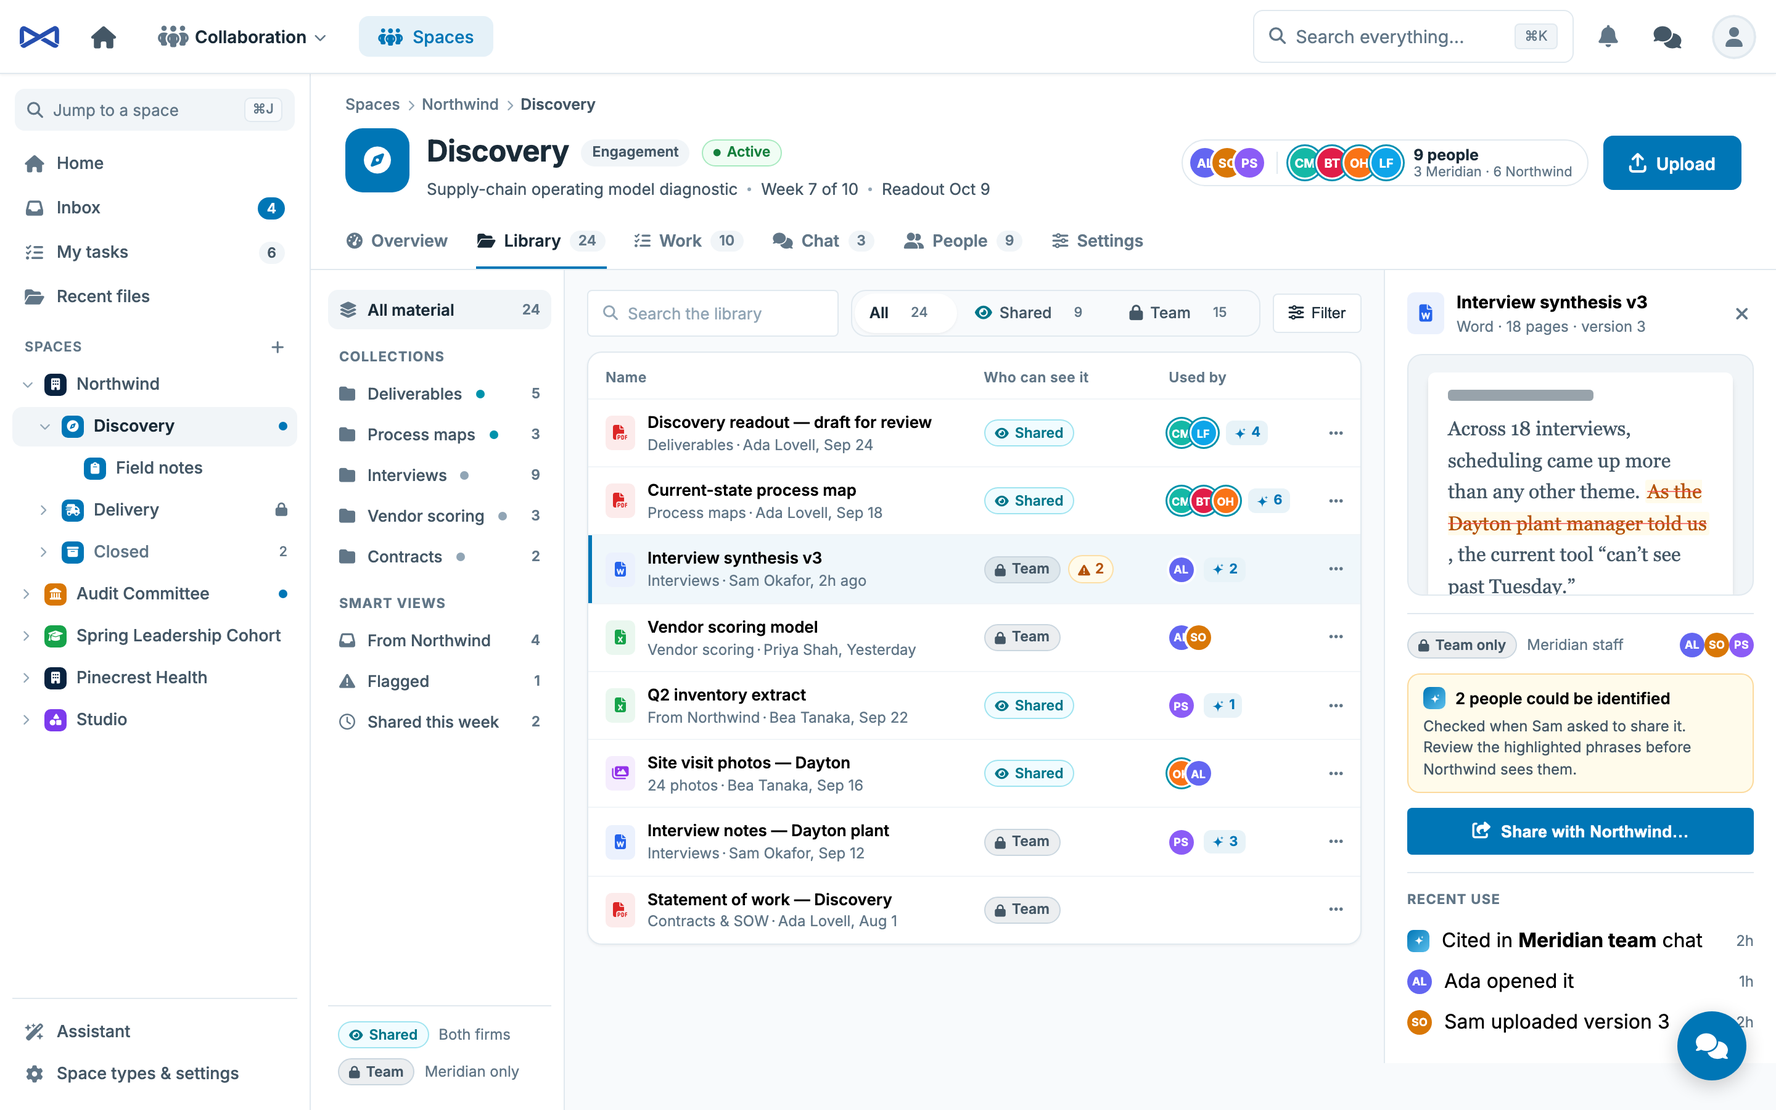
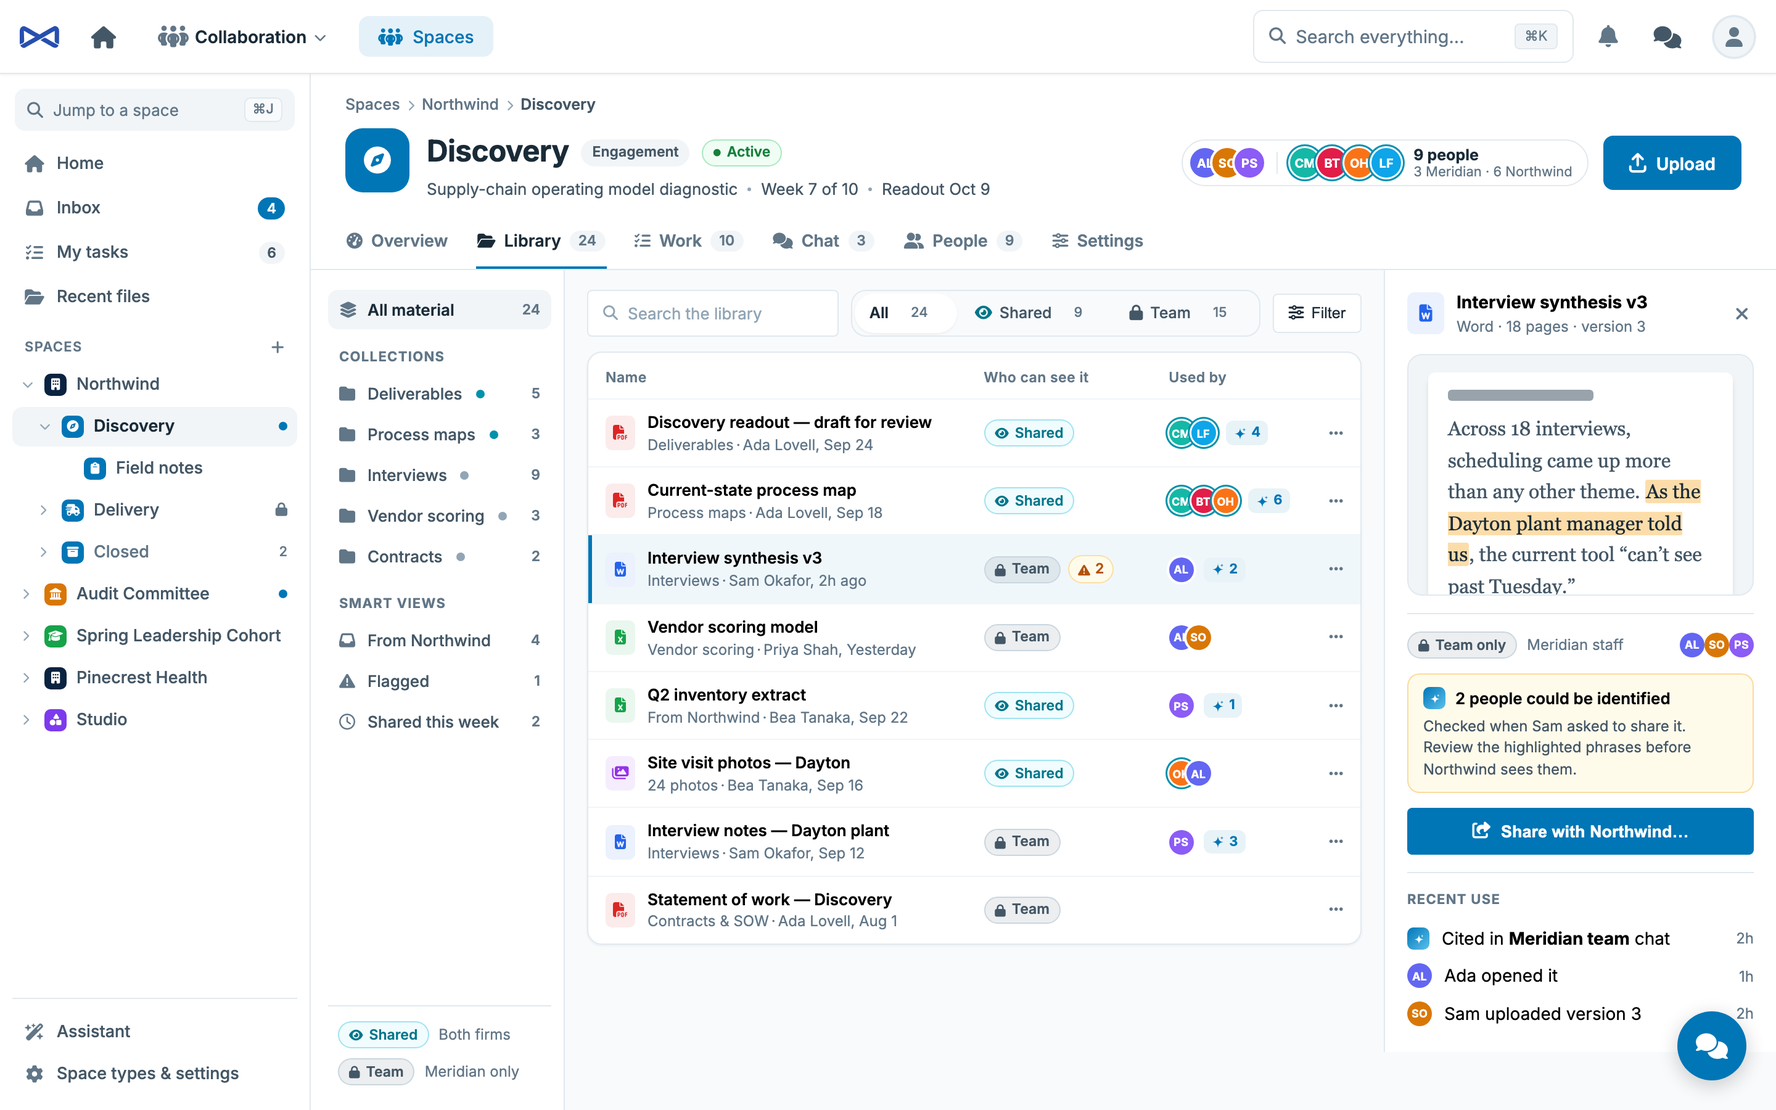
fix(collab): round 97 delivery — phrase highlight tokens, tight budgets, RM5 upload gate, WG3 exact reasons, and Explorer font bounds

Changed region(s): [[0.8125, 0.4356, 0.9688, 0.5289], [0.7812, 0.84, 0.9688, 0.9333]]

diff --git a/packages/IntegrationTests/src/checks/room.checks.ts b/packages/IntegrationTests/src/checks/room.checks.ts
@@ -1,9 +1,11 @@
 import { Assert, IntegrationCheckRegistry, type IntegrationCheckContext, type NamedCheck } from '@memberjunction/testing-integration/registry';
 import { MJConversationDetailEntity, MJConversationEntity } from '@memberjunction/core-entities';
-import { postSpaceMessage } from '@mj-biz-apps/collaboration-core-entities-server';
+import { postSpaceMessage, uploadSpaceFile, decideUploadBand, collaborationFileStore } from '@mj-biz-apps/collaboration-core-entities-server';
 import { mjBizAppsCollaborationSpaceItemEntity } from '@mj-biz-apps/collaboration-entities';
 import { CONVERSATION_ENTITY, CONVERSATION_DETAIL_ENTITY, SPACE_ENTITY, SPACE_ITEM_ENTITY, FILE_ENTITY } from '../entity-names.js';
 import { FindRows, GetPersonaUser, View } from '../wire.js';
+import { COLLABORATION_STORAGE_ACCOUNT_ID, ensureLocalStorageAccount } from '../world/local-storage-account.js';
+import { worldStorageRoot } from '../world/seed-files.js';
 
 const NORTHWIND_SPACE_ID = 'C1000001-0000-4000-8000-000000000001';
 const DISCOVERY_SPACE_ID = 'C1000001-0000-4000-8000-000000000002';
@@ -232,21 +234,34 @@ const checks: NamedCheck[] = [
             const sam = await GetPersonaUser(ctx, 'sam');
             const casey = await GetPersonaUser(ctx, 'casey');
 
-            const fileRows = await FindRows<{ ID: string; Name: string }>(ctx, FILE_ENTITY, '1=1', ['ID', 'Name']);
-            Assert(fileRows.length > 0, 'Found at least one file to link in Sealed branch');
-            const fileEntity = ctx.Provider.EntityByName(FILE_ENTITY);
-            Assert(!!fileEntity, 'File entity exists');
+            await ensureLocalStorageAccount(ctx.Provider, ctx.User, worldStorageRoot());
+            const store = collaborationFileStore(ctx.Provider, COLLABORATION_STORAGE_ACCOUNT_ID);
+            const uniqueFileName = `sealed-branch-plan-${Date.now()}.txt`;
 
+            const uploadOutcome = await uploadSpaceFile({
+                user: sam,
+                storageUser: ctx.User,
+                provider: ctx.Provider,
+                store,
+                spaceId: SEALED_BRANCH_SPACE_ID,
+                folder: 'Internal',
+                fileName: uniqueFileName,
+                mimeType: 'text/plain',
+                content: Buffer.from('Sealed branch confidential test plan content'),
+                gate: () => decideUploadBand(ctx.Provider, sam, SEALED_BRANCH_SPACE_ID),
+            });
+            Assert(uploadOutcome.ok, `Uploading file as Sam in Sealed branch must succeed: ${uploadOutcome.ok ? '' : uploadOutcome.message}`);
+            if (!uploadOutcome.ok) throw new Error(`Upload failed: ${uploadOutcome.message}`);
+
+            const sealedItemId = uploadOutcome.itemId;
             const sealedItem = await ctx.Provider.GetEntityObject<mjBizAppsCollaborationSpaceItemEntity>(SPACE_ITEM_ENTITY, sam);
-            sealedItem.NewRecord();
-            sealedItem.SpaceID = SEALED_BRANCH_SPACE_ID;
-            sealedItem.EntityID = fileEntity!.ID;
-            sealedItem.RecordID = `ID|${fileRows[0].ID}`;
+            Assert(await sealedItem.Load(sealedItemId), 'Load uploaded sealed item');
             sealedItem.Band = 'Shared';
-            const savedSealedItem = await sealedItem.Save();
-            Assert(savedSealedItem, 'Creating Shared item in Sealed branch must succeed');
+            const promoted = await sealedItem.Save();
+            Assert(promoted, 'Promoting sealed branch item to Shared must succeed');
 
             try {
+                // 1. Sam asks in Northwind's room: Casey's read must NOT name uniqueFileName
                 const samPostRes = await postSpaceMessage(ctx.Provider, sam, {
                     spaceId: NORTHWIND_SPACE_ID,
                     text: '@Assistant summarize all materials in this space',
@@ -269,10 +284,38 @@ const checks: NamedCheck[] = [
                 );
                 Assert(caseyReplyRes.Success && (caseyReplyRes.Results?.length ?? 0) === 1, 'Casey can read Northwind room assistant reply');
                 const nwReplyMsg = caseyReplyRes.Results![0].Message;
-                Assert(!nwReplyMsg.includes(fileRows[0].Name), `Northwind room assistant reply must not name sub-space Shared file ${fileRows[0].Name}`);
+                Assert(!nwReplyMsg.includes(uniqueFileName), `Northwind room assistant reply must not name sub-space Shared file ${uniqueFileName}`);
+
+                // 2. The other half: Sam asking in Sealed branch's own room names it
+                const samSealedRes = await postSpaceMessage(ctx.Provider, sam, {
+                    spaceId: SEALED_BRANCH_SPACE_ID,
+                    text: '@Assistant summarize materials in this space',
+                    executeAgent: true,
+                });
+                Assert(samSealedRes.ok === true, 'Sam postSpaceMessage in Sealed branch room succeeds');
+                if (!samSealedRes.ok) throw new Error(`Sam postSpaceMessage failed: ${samSealedRes.message}`);
+                if (samSealedRes.detailId) createdDetailIds.push(samSealedRes.detailId);
+                if (samSealedRes.assistantDetailId) createdDetailIds.push(samSealedRes.assistantDetailId);
+
+                const samSealedReplyRes = await view.RunView<{ ID: string; Message: string }>(
+                    {
+                        EntityName: CONVERSATION_DETAIL_ENTITY,
+                        ExtraFilter: `ID = '${samSealedRes.assistantDetailId}'`,
+                        Fields: ['ID', 'Message'],
+                        ResultType: 'simple',
+                    },
+                    sam,
+                );
+                Assert(samSealedReplyRes.Success && (samSealedReplyRes.Results?.length ?? 0) === 1, 'Sam can read Sealed branch room assistant reply');
+                const sealedReplyMsg = samSealedReplyRes.Results![0].Message;
+                Assert(sealedReplyMsg.includes(uniqueFileName), `Sealed branch room reply must name its own Shared file ${uniqueFileName}`);
             } finally {
-                if (sealedItem.ID) {
-                    await sealedItem.Delete();
+                if (sealedItemId) {
+                    const itemToDelete = await ctx.Provider.GetEntityObject<mjBizAppsCollaborationSpaceItemEntity>(SPACE_ITEM_ENTITY, sam);
+                    if (await itemToDelete.Load(sealedItemId)) {
+                        const deleted = await itemToDelete.Delete();
+                        Assert(deleted === true, 'Deleting uploaded Sealed branch space item must succeed');
+                    }
                 }
             }
         },

diff --git a/packages/IntegrationTests/src/checks/client/room.client.checks.ts b/packages/IntegrationTests/src/checks/client/room.client.checks.ts
@@ -174,23 +174,27 @@ const checks: NamedCheck[] = [
             // B0.2: With a Shared item in Sealed branch, Sam asks in Northwind's room over the wire, and as Casey the reply does not name it
             const samCtx = await getPersonaClientContext(ctx, 'sam');
             const caseyCtx = await getPersonaClientContext(ctx, 'casey');
+            const samClient = new CollaborationClient(samCtx.GraphQLProvider);
 
-            const fileRows = await FindRows<{ ID: string; Name: string }>(ctx, FILE_ENTITY, '1=1', ['ID', 'Name']);
-            Assert(fileRows.length > 0, 'Found at least one file to link in Sealed branch');
-            const fileEntity = ctx.Provider.EntityByName(FILE_ENTITY);
-            Assert(!!fileEntity, 'File entity exists');
+            const uniqueFileName = `sealed-wire-${Date.now()}.txt`;
+            const uploadOutcome = await samClient.UploadSpaceFile({
+                SpaceID: SEALED_BRANCH_SPACE_ID,
+                FileName: uniqueFileName,
+                MimeType: 'text/plain',
+                Base64Data: Buffer.from('Sealed branch confidential wire test plan content').toString('base64'),
+                Folder: 'Internal',
+            });
+            Assert(uploadOutcome.Success && !!uploadOutcome.ItemID, `Uploading file as Sam in Sealed branch over wire must succeed: ${uploadOutcome.ErrorMessage ?? ''}`);
+            const sealedItemId = uploadOutcome.ItemID!;
 
             const sealedItem = await samCtx.Provider.GetEntityObject<mjBizAppsCollaborationSpaceItemEntity>(SPACE_ITEM_ENTITY, samCtx.User);
-            sealedItem.NewRecord();
-            sealedItem.SpaceID = SEALED_BRANCH_SPACE_ID;
-            sealedItem.EntityID = fileEntity!.ID;
-            sealedItem.RecordID = `ID|${fileRows[0].ID}`;
+            Assert(await sealedItem.Load(sealedItemId), 'Load uploaded sealed item over wire');
             sealedItem.Band = 'Shared';
-            const savedSealedItem = await sealedItem.Save();
-            Assert(savedSealedItem, 'Creating Shared item in Sealed branch must succeed over the wire');
+            const promoted = await sealedItem.Save();
+            Assert(promoted, 'Promoting sealed branch item to Shared over wire must succeed');
 
             try {
-                const samClient = new CollaborationClient(samCtx.GraphQLProvider);
+                // 1. Sam asks in Northwind's room: Casey's read must NOT name uniqueFileName
                 const samPostRes = await samClient.PostSpaceMessage({
                     SpaceID: NORTHWIND_SPACE_ID,
                     Text: '@Assistant summarize all materials in this space',
@@ -212,10 +216,37 @@ const checks: NamedCheck[] = [
                 );
                 Assert(caseyReplyRes.Success && (caseyReplyRes.Results?.length ?? 0) === 1, 'Casey can read Northwind room assistant reply over the wire');
                 const nwReplyMsg = caseyReplyRes.Results![0].Message;
-                Assert(!nwReplyMsg.includes(fileRows[0].Name), `Northwind room assistant reply over the wire must not name sub-space Shared file ${fileRows[0].Name}`);
+                Assert(!nwReplyMsg.includes(uniqueFileName), `Northwind room assistant reply over the wire must not name sub-space Shared file ${uniqueFileName}`);
+
+                // 2. The other half: Sam asking in Sealed branch's own room names it
+                const samSealedRes = await samClient.PostSpaceMessage({
+                    SpaceID: SEALED_BRANCH_SPACE_ID,
+                    Text: '@Assistant summarize materials in this space',
+                    ExecuteAgent: true,
+                });
+                Assert(samSealedRes.Success === true, `Sam PostSpaceMessage in Sealed branch room failed: ${samSealedRes.ErrorMessage ?? ''}`);
+                if (samSealedRes.DetailID) createdDetailIds.push(samSealedRes.DetailID);
+                if (samSealedRes.AssistantDetailID) createdDetailIds.push(samSealedRes.AssistantDetailID);
+
+                const samSealedReplyRes = await View(samCtx).RunView<{ ID: string; Message: string }>(
+                    {
+                        EntityName: CONVERSATION_DETAIL_ENTITY,
+                        ExtraFilter: `ID = '${samSealedRes.AssistantDetailID}'`,
+                        Fields: ['ID', 'Message'],
+                        ResultType: 'simple',
+                    },
+                    samCtx.User,
+                );
+                Assert(samSealedReplyRes.Success && (samSealedReplyRes.Results?.length ?? 0) === 1, 'Sam can read Sealed branch room assistant reply over wire');
+                const sealedReplyMsg = samSealedReplyRes.Results![0].Message;
+                Assert(sealedReplyMsg.includes(uniqueFileName), `Sealed branch room reply over wire must name its own Shared file ${uniqueFileName}`);
             } finally {
-                if (sealedItem.ID) {
-                    await sealedItem.Delete();
+                if (sealedItemId) {
+                    const itemToDelete = await samCtx.Provider.GetEntityObject<mjBizAppsCollaborationSpaceItemEntity>(SPACE_ITEM_ENTITY, samCtx.User);
+                    if (await itemToDelete.Load(sealedItemId)) {
+                        const deleted = await itemToDelete.Delete();
+                        Assert(deleted === true, 'Deleting uploaded Sealed branch space item over wire must succeed');
+                    }
                 }
             }
         },

diff --git a/packages/AngularWidgets/src/lib/share-check.component.ts b/packages/AngularWidgets/src/lib/share-check.component.ts
@@ -83,9 +83,7 @@ import { COLLAB_TOKENS_CSS } from './tokens';
           @for (fix of Findings; track fix.id) {
             @let parts = getQuotationParts(fix);
             <div class="fix">
-              <div class="fix-q">
-                {{ parts.before }}<mark class="marked-phrase" [class.applied]="fix.status === 'Applied'">{{ parts.marked }}</mark>{{ parts.after }}
-              </div>
+              <div class="fix-q">{{ parts.before }}<mark class="marked-phrase" [class.applied]="fix.status === 'Applied'">{{ parts.marked }}</mark>{{ parts.after }}</div>
               <div class="fix-a">
                 <span class="muted fs12">Suggest</span>
                 <span class="sugg">{{ fix.suggestedPhrase }}</span>
@@ -141,6 +139,8 @@ import { COLLAB_TOKENS_CSS } from './tokens';
   styles: [COLLAB_TOKENS_CSS, `
     :host {
       display: block;
+      font-family: var(--mj-font-family, Inter, sans-serif);
+      font-size: 14px;
       line-height: var(--mjc-line-height);
     }
 
@@ -243,10 +243,10 @@ import { COLLAB_TOKENS_CSS } from './tokens';
       font-family: Georgia, 'DejaVu Serif', serif;
 
       .marked-phrase {
-        background: var(--mjc-warn-bg, #fef3c7);
-        color: var(--mjc-warn-text, #92400e);
+        background: color-mix(in srgb, var(--mj-status-warning) 35%, transparent);
+        color: var(--mj-text-primary);
         border-radius: 3px;
-        padding: 0 3px;
+        padding: 0 2px;
         text-decoration: line-through;
         text-decoration-color: color-mix(in srgb, var(--mj-status-error, #ef4444) 70%, transparent);
 
@@ -309,8 +309,8 @@ import { COLLAB_TOKENS_CSS } from './tokens';
     }
 
     .note-textarea {
-      min-height: 80px;
-      height: 80px;
+      min-height: 62px;
+      height: 62px;
       width: 100%;
       box-sizing: border-box;
       resize: none;

diff --git a/packages/IntegrationTests/src/checks/client/write-gates.client.checks.ts b/packages/IntegrationTests/src/checks/client/write-gates.client.checks.ts
@@ -314,7 +314,7 @@ const checks: NamedCheck[] = [
             Assert(!savedTeamSub, 'Bea creating subtask under Team task must fail save over the wire');
             const teamSubReason = subUnderTeam.LatestResult?.CompleteMessage ?? '';
             Assert(
-                teamSubReason.includes('Access denied for new MJ_BizApps_Tasks: Tasks record') || teamSubReason.includes('Access denied'),
+                teamSubReason.includes('Access denied for new MJ_BizApps_Tasks: Tasks record'),
                 `Expected Access denied refusal for subtask under Team task over the wire, got: ${teamSubReason}`,
             );
 
@@ -328,7 +328,7 @@ const checks: NamedCheck[] = [
             Assert(!savedUnreachableSub, 'Bea creating subtask under unreachable space task must fail save over the wire');
             const unreachableSubReason = subUnderUnreachable.LatestResult?.CompleteMessage ?? '';
             Assert(
-                unreachableSubReason.includes('Access denied for new MJ_BizApps_Tasks: Tasks record') || unreachableSubReason.includes('Access denied'),
+                unreachableSubReason.includes('Access denied for new MJ_BizApps_Tasks: Tasks record'),
                 `Expected Access denied refusal for subtask under unreachable task over the wire, got: ${unreachableSubReason}`,
             );
 

diff --git a/packages/AngularWidgets/src/lib/item-preview.component.ts b/packages/AngularWidgets/src/lib/item-preview.component.ts
@@ -27,15 +27,7 @@ import { COLLAB_TOKENS_CSS } from './tokens';
         <div class="dp-page">
           <div class="dp-h"></div>
           @for (p of Paragraphs; track $index) {
-            <p>
-              @for (seg of parseParagraph(p); track $index) {
-                @if (seg.isMarked) {
-                  <mark class="marked-phrase">{{ seg.text }}</mark>
-                } @else {
-                  {{ seg.text }}
-                }
-              }
-            </p>
+            <p>@for (seg of parseParagraph(p); track $index) {@if (seg.isMarked) {<mark class="marked-phrase">{{ seg.text }}</mark>} @else {{{ seg.text }}}}</p>
           }
           <div class="dp-l"></div>
           <div class="dp-l s"></div>
@@ -173,12 +165,10 @@ import { COLLAB_TOKENS_CSS } from './tokens';
       }
 
       .marked-phrase {
-        background: var(--mjc-warn-bg, #fef3c7);
-        color: var(--mjc-warn-text, #92400e);
+        background: color-mix(in srgb, var(--mj-status-warning) 35%, transparent);
+        color: var(--mj-text-primary);
         border-radius: 2px;
-        padding: 0 2px;
-        text-decoration: line-through;
-        text-decoration-color: color-mix(in srgb, var(--mj-status-error, #ef4444) 70%, transparent);
+        padding: 0 1px;
       }
     }
 

diff --git a/packages/IntegrationTests/src/checks/write-gates.checks.ts b/packages/IntegrationTests/src/checks/write-gates.checks.ts
@@ -311,7 +311,7 @@ const checks: NamedCheck[] = [
             Assert(!savedTeamSub, 'Bea creating subtask under Team task must fail save');
             const teamSubReason = subUnderTeam.LatestResult?.CompleteMessage ?? '';
             Assert(
-                teamSubReason.includes('Access denied for new MJ_BizApps_Tasks: Tasks record') || teamSubReason.includes('Access denied'),
+                teamSubReason.includes('Access denied for new MJ_BizApps_Tasks: Tasks record'),
                 `Expected Access denied refusal for subtask under Team task, got: ${teamSubReason}`,
             );
 
@@ -325,7 +325,7 @@ const checks: NamedCheck[] = [
             Assert(!savedUnreachableSub, 'Bea creating subtask under unreachable space task must fail save');
             const unreachableSubReason = subUnderUnreachable.LatestResult?.CompleteMessage ?? '';
             Assert(
-                unreachableSubReason.includes('Access denied for new MJ_BizApps_Tasks: Tasks record') || unreachableSubReason.includes('Access denied'),
+                unreachableSubReason.includes('Access denied for new MJ_BizApps_Tasks: Tasks record'),
                 `Expected Access denied refusal for subtask under unreachable task, got: ${unreachableSubReason}`,
             );
 

diff --git a/e2e/specs/frame-03-library.spec.ts b/e2e/specs/frame-03-library.spec.ts
@@ -148,8 +148,8 @@ test.describe('Frame 03 — Space Library', () => {
         const diffRatio = numDiffPixels / totalPixels;
         console.log(`Frame 03 Library visual diff: ${numDiffPixels} / ${totalPixels} pixels (${(diffRatio * 100).toFixed(2)}%)`);
 
-        // Budget: Full Chromium font antialiasing across all 8 rows & preview drawer (CI: <= 145,000 px, local: <= 180,000 px)
-        const budget = process.env.CI ? 145000 : 180000;
+        // Budget: Full Chromium font antialiasing across all 8 rows & preview drawer (CI: <= 130,000 px, local: <= 145,000 px)
+        const budget = process.env.CI ? 130000 : 145000;
         expect(numDiffPixels).toBeLessThanOrEqual(budget);
     });
 });

diff --git a/e2e/specs/frame-02-chrome.spec.ts b/e2e/specs/frame-02-chrome.spec.ts
@@ -246,8 +246,8 @@ test.describe('Frame 02 Chrome — Space Overview', () => {
         const diffRatio = numDiffPixels / totalPixels;
         console.log(`Frame 02 Full Overview visual diff: ${numDiffPixels} / ${totalPixels} pixels (${(diffRatio * 100).toFixed(2)}%)`);
 
-        // Frame 02 full frame budget (CI Linux full Chromium: <= 45,000 px; macOS text antialiasing: <= 80,000 px)
-        const budget = process.env.CI ? 45000 : 80000;
+        // Frame 02 full frame budget (CI Linux full Chromium: <= 41,500 px; macOS text antialiasing: <= 55,000 px)
+        const budget = process.env.CI ? 41500 : 55000;
         expect(numDiffPixels).toBeLessThanOrEqual(budget);
     });
 });

diff --git a/packages/Angular/src/lib/collaboration-section.component.ts b/packages/Angular/src/lib/collaboration-section.component.ts
@@ -62,6 +62,8 @@ import { CollaborationNoAccessComponent } from './no-access.component';
             width: 100%;
             height: 100%;
             overflow: hidden;
+            font-family: var(--mj-font-family, Inter, sans-serif);
+            font-size: 14px;
         }
         .mjc-shell {
             display: grid;
@@ -70,6 +72,9 @@ import { CollaborationNoAccessComponent } from './no-access.component';
             height: 100%;
             min-height: 0;
             overflow: hidden;
+            position: relative;
+            font-family: var(--mj-font-family, Inter, sans-serif);
+            font-size: 14px;
         }
         .main {
             min-width: 0;

diff --git a/e2e/specs/frame-04-share-check.spec.ts b/e2e/specs/frame-04-share-check.spec.ts
@@ -155,8 +155,8 @@ test.describe('Frame 04 — Share Check Dialog', () => {
         const diffRatio = numDiffPixels / totalPixels;
         console.log(`Frame 04 Share Check visual diff: ${numDiffPixels} / ${totalPixels} pixels (${(diffRatio * 100).toFixed(2)}%)`);
 
-        // Budget: Full Chromium font antialiasing on backdrop + modal (CI: <= 245,000 px, local: <= 260,000 px)
-        const budget = process.env.CI ? 245000 : 260000;
+        // Budget: Full Chromium font antialiasing on backdrop + modal (CI: <= 200,000 px, local: <= 210,000 px)
+        const budget = process.env.CI ? 200000 : 210000;
         expect(numDiffPixels).toBeLessThanOrEqual(budget);
     });
 });

diff --git a/packages/AngularWidgets/src/lib/share-check-dialog.component.ts b/packages/AngularWidgets/src/lib/share-check-dialog.component.ts
@@ -39,6 +39,8 @@ import { COLLAB_TOKENS_CSS } from './tokens';
       position: absolute;
       inset: 0;
       z-index: 1000;
+      font-family: var(--mj-font-family, Inter, sans-serif);
+      font-size: 14px;
       line-height: var(--mjc-line-height);
     }
 
